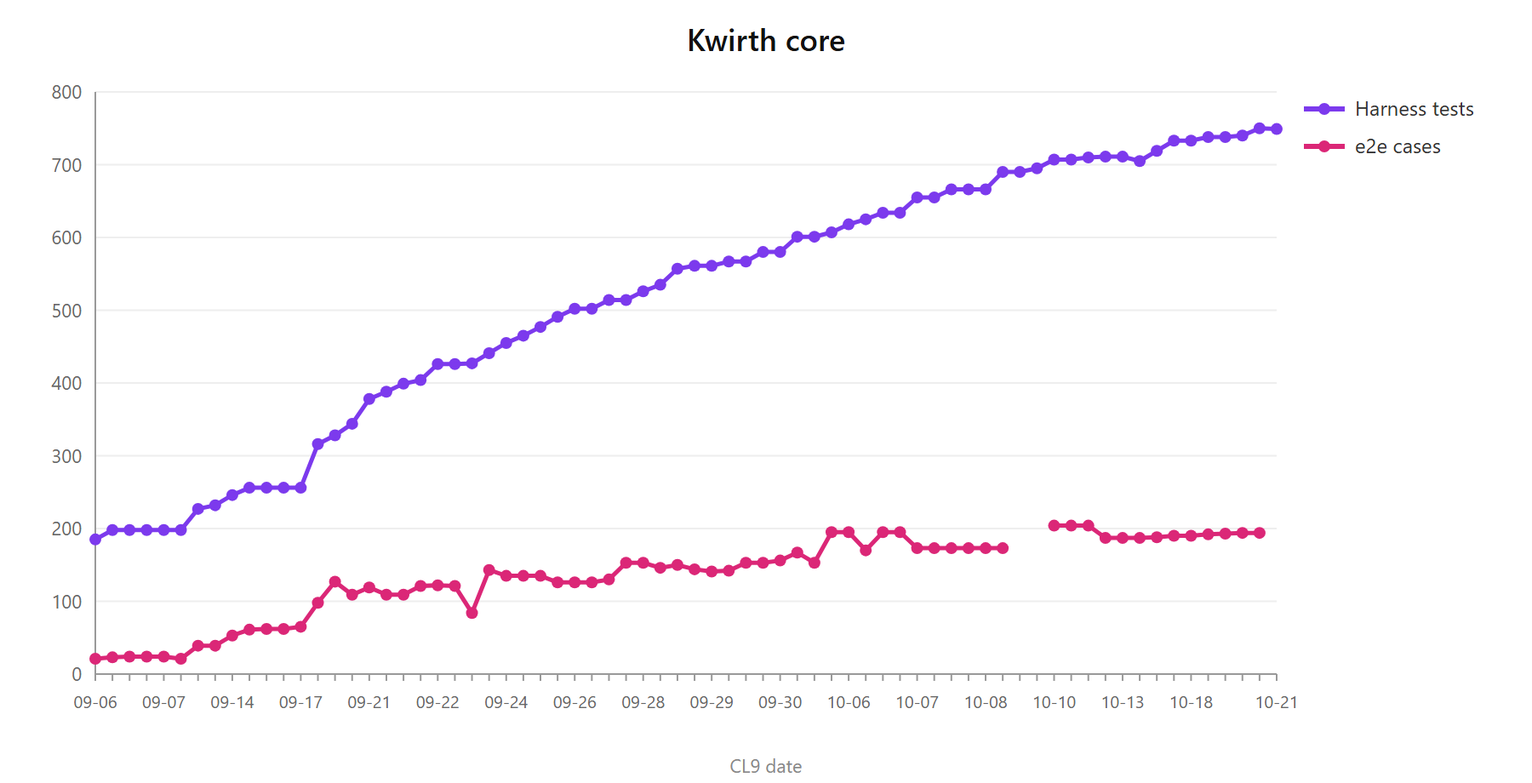
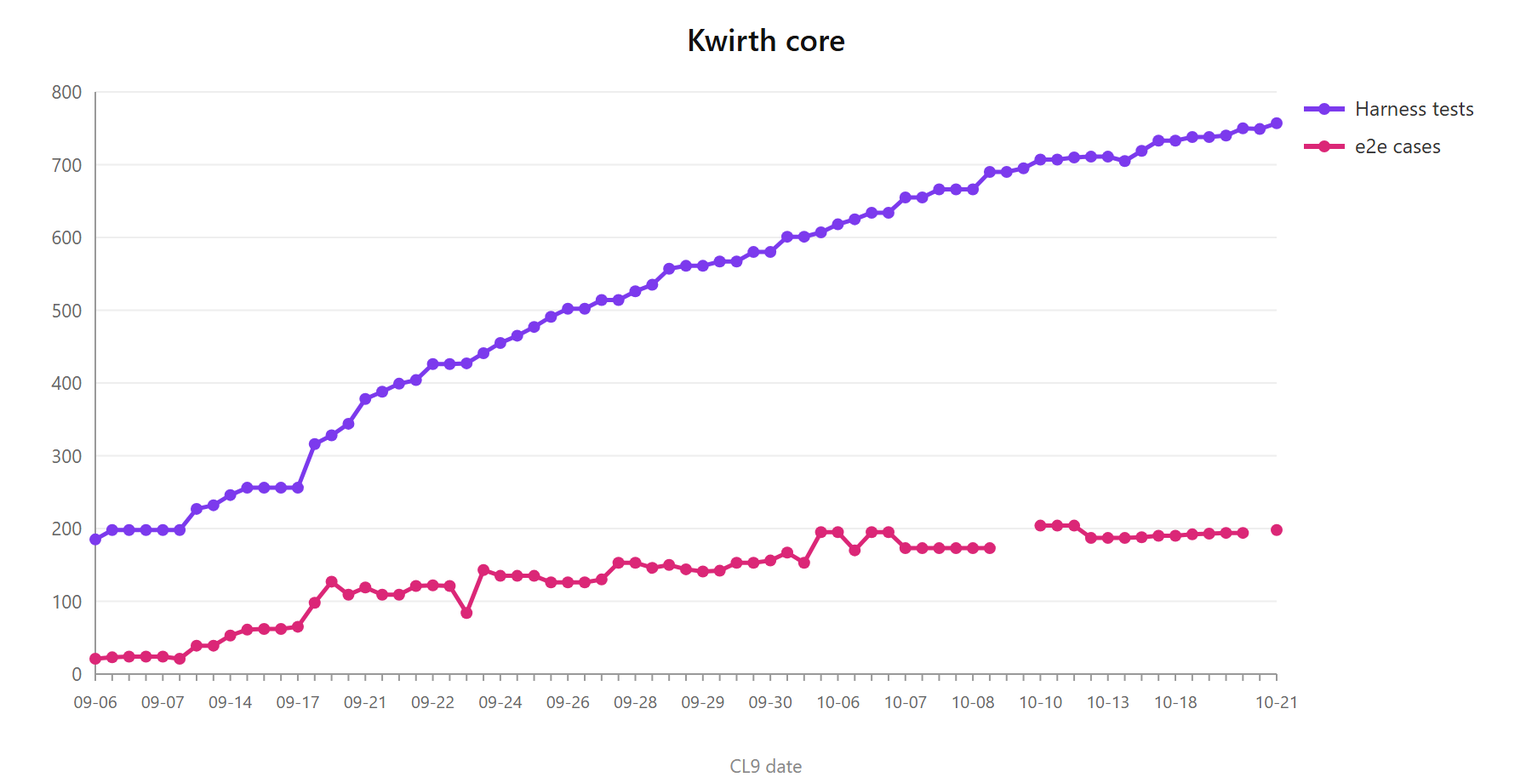
fix(auth): an IdP-bound user can no longer log in with a password (signup S0)
The User security drawer creates IdP users with password '' and UserApi stores
bcrypt(''). LoginApi never looked at user.idp, so POST /login with the user's
email and '' returned an AccessKey without going through the IdP, and so did
/login/password. Reproduced against the dev core before the fix (200 + key).

Both routes now refuse any user with a non-empty idp with a 401, counted by the
rate limiter like a wrong password, and log a warning under AUTH.

Also opens plans/signup (PRD validated, streams S0-S4), +4 harness tests, the
login-idp-password e2e spec, metrics row and the admin guide correction.

diff --git a/front/e2e/tests/login-idp-password.spec.ts b/front/e2e/tests/login-idp-password.spec.ts
@@ -1,0 +1,67 @@
+import { test, expect, APIRequestContext } from '@playwright/test'
+import { createHash } from 'crypto'
+
+/*
+    🔴 A user bound to an IdP cannot log in with a password (plan: plans/signup/PLAN.md, S0).
+
+    The drawer creates an IdP user with password '' and UserApi stores bcrypt(''), so before the gate a
+    POST /login with that email and '' handed out an AccessKey without going through the IdP. This runs
+    the real path against the dev core: the user is created exactly as the drawer does it.
+
+    NON-destructive: the only user it creates carries the `e2e-s0-` prefix and is deleted at the end, even
+    on failure. The IdP it binds to does not need to exist: the gate is on the binding, not on the IdP.
+*/
+
+const BACK = process.env.KWIRTH_E2E_BACK ?? 'http://localhost:3883'
+const USER = process.env.KWIRTH_E2E_USER ?? 'admin'
+const PASS = process.env.KWIRTH_E2E_PASS ?? ''
+
+const IDP_USER = 'e2e-s0-idp-user@example.com'
+const sha256 = (s: string) => createHash('sha256').update(s).digest('hex')
+
+interface IAccessKey { id: string, type: string, resources: string }
+
+test.describe.configure({ mode: 'serial' })
+
+test.describe('login: a user bound to an IdP cannot use a password', () => {
+    let api: APIRequestContext
+    let auth: Record<string, string>
+
+    test.beforeAll(async ({ playwright }) => {
+        api = await playwright.request.newContext({ baseURL: BACK })
+        const login = await api.post('/login', { data: { user: USER, password: sha256(PASS) } })
+        expect(login.status(), 'admin login against the back end').toBe(200)
+        const key = (await login.json()).accessKey as IAccessKey
+        auth = { Authorization: `Bearer ${key.id}|${key.type}|${key.resources}` }
+
+        // the same body ManageUserSecurity sends for an IdP user: empty password
+        const created = await api.post('/user', { headers: auth, data: { id: IDP_USER, name: 'e2e S0', password: '', resources: '', idp: 'google' } })
+        expect(created.status(), 'creating the IdP user').toBe(200)
+    })
+
+    test.afterAll(async () => {
+        await api.delete(`/user/${IDP_USER}`, { headers: auth }).catch(() => {})
+        await api.dispose()
+    })
+
+    test('🔴 POST /login with the empty password is refused (it used to return an AccessKey)', async () => {
+        const res = await api.post('/login', { data: { user: IDP_USER, password: '' } })
+        expect(res.status()).toBe(401)
+    })
+
+    test('POST /login with sha256 of the empty password is refused too', async () => {
+        const res = await api.post('/login', { data: { user: IDP_USER, password: sha256('') } })
+        expect(res.status()).toBe(401)
+    })
+
+    test('POST /login/password cannot be used to get in either', async () => {
+        const res = await api.post('/login/password', { data: { user: IDP_USER, password: '', newpassword: sha256('x') } })
+        expect(res.status()).toBe(401)
+    })
+
+    test('the user is still there, untouched: the gate refuses, it does not delete', async () => {
+        const res = await api.get(`/user/${IDP_USER}`, { headers: auth })
+        expect(res.status()).toBe(200)
+        expect((await res.json()).idp).toBe('google')
+    })
+})

diff --git a/back/tests/api/LoginApi.test.ts b/back/tests/api/LoginApi.test.ts
@@ -261,3 +261,49 @@ test('se aceptan los tres prefijos de bcrypt, no solo $2b$', async () => {
     }
     finally { await srv.stop() }
 })
+
+/*
+    🔴 A user bound to an IdP cannot log in with a password (signup S0).
+
+    The UI creates them with an empty password, stored as bcrypt(''): before the gate, a POST /login with
+    their email and '' handed out an AccessKey without going through the IdP. The second case proves the
+    gate does not depend on the password being empty: even the right one is refused.
+*/
+const IDP_USER = (password: string) => makeUser({ idp: 'google', password: bcrypt.hashSync(password, 4) })
+
+test('POST /login de un usuario IdP con password vacia devuelve 401 (antes daba accessKey)', async () => {
+    const srv = await startServer(encodeUsers([IDP_USER('')]))
+    try {
+        const res = await post(srv.base, '/login', { user: 'alice@example.com', password: '' })
+        assert.equal(res.status, 401)
+    }
+    finally { await srv.stop() }
+})
+
+test('POST /login de un usuario IdP con su password correcta tambien devuelve 401', async () => {
+    const srv = await startServer(encodeUsers([IDP_USER(sha256('secret'))]))
+    try {
+        const res = await post(srv.base, '/login', { user: 'alice@example.com', password: sha256('secret') })
+        assert.equal(res.status, 401)
+    }
+    finally { await srv.stop() }
+})
+
+test('POST /login/password de un usuario IdP devuelve 401 y no da accessKey', async () => {
+    const srv = await startServer(encodeUsers([IDP_USER('')]))
+    try {
+        const res = await post(srv.base, '/login/password', { user: 'alice@example.com', password: '', newpassword: sha256('nuevo') })
+        assert.equal(res.status, 401)
+    }
+    finally { await srv.stop() }
+})
+
+test('POST /login de un usuario con idp vacio se trata como local', async () => {
+    // '' is what the drawer stores for "Local": it must keep logging in with its password
+    const srv = await startServer(encodeUsers([makeUser({ idp: '' })]))
+    try {
+        const res = await post(srv.base, '/login', { user: 'alice@example.com', password: sha256('secret') })
+        assert.equal(res.status, 200)
+    }
+    finally { await srv.stop() }
+})

diff --git a/back/src/api/LoginApi.ts b/back/src/api/LoginApi.ts
@@ -49,6 +49,16 @@ const verifyPassword = async (incoming: string, stored: string, userId: string) 
     return { valid, firstLogin }
 }
 
+/*
+    🔴 A user bound to an IdP never logs in with a password, neither here nor on the password change.
+
+    Their identity is the IdP's to prove: the UI creates them with an empty password, which UserApi stores
+    as bcrypt(''), so without this gate a POST /login with their email and '' got an AccessKey without
+    ever going through the IdP. Refused as any other bad credential (401, and it counts for the rate
+    limiter), so the answer does not tell a local user from an IdP one.
+*/
+const isIdpUser = (user: IUser) => typeof user.idp === 'string' && user.idp !== ''
+
 export class LoginApi {
     secrets: ISecrets
     configMaps: IConfigMaps
@@ -94,6 +104,12 @@ export class LoginApi {
                     return
                 }
                 let user:IUser = JSON.parse(atob(users[req.body.user]))
+                if (user && isIdpUser(user)) {
+                    logWarning(ELogComponent.AUTH, `Password login refused for '${user.id}': bound to IdP '${user.idp}'`)
+                    LoginApi.rateLimiter.fail(rateKey)
+                    res.status(401).json({})
+                    return
+                }
                 if (user) {
                     const { valid, firstLogin } = await verifyPassword(req.body.password, user.password, user.id)
                     if (!valid) {
@@ -155,6 +171,12 @@ export class LoginApi {
                 }
 
                 let user:IUser = JSON.parse (atob(users[req.body.user]))
+                if (user && isIdpUser(user)) {
+                    logWarning(ELogComponent.AUTH, `Password change refused for '${user.id}': bound to IdP '${user.idp}'`)
+                    LoginApi.rateLimiter.fail(rateKey)
+                    res.status(401).send()
+                    return
+                }
                 if (user) {
                     const { valid } = await verifyPassword(req.body.password, user.password, user.id)
                     if (!valid) {

diff --git a/plans/signup/PRD.md b/plans/signup/PRD.md
@@ -1,0 +1,123 @@
+# PRD — Signup (auto-registro vía IdP)
+
+> **Estado:** validado · 2026-10-21 · D1–D9 cerradas por el usuario · implementación en [PLAN.md](PLAN.md)
+
+## 1. Resumen ejecutivo
+
+Hoy el acceso por IdP es **lista blanca estricta**: un usuario que se autentica bien en Google/Entra/… pero
+no está en `kwirth-users` recibe `notfound` y se queda fuera, y el admin tiene que darlo de alta a mano
+sabiendo de antemano su email. Este PRD añade el **signup**: si el admin lo habilita **en un IdP concreto**,
+ese usuario puede **pedir acceso**; la petición queda **pendiente de validación** y no entra en Kwirth hasta
+que un admin la **aprueba** (asignándole permisos) o la **rechaza**.
+
+**Criterio de éxito:** un usuario desconocido hace login con un IdP con signup habilitado, pide acceso, ve
+"pendiente"; el admin lo ve en *User security*, lo aprueba con unos recursos, y en el siguiente login el
+usuario entra con exactamente esos permisos. Con signup deshabilitado, el comportamiento es el de hoy, byte
+a byte.
+
+## 2. El problema
+
+- El alta manual exige que el admin conozca el email exacto del usuario **y** el IdP con el que entrará.
+  En equipos que crecen, el canal real es "mándame tu email por Teams", y los errores de tecleo acaban en
+  `notfound` sin pista para nadie.
+- El usuario rechazado no tiene forma de decir "quiero entrar": el mensaje es un callejón sin salida.
+- El admin no tiene visibilidad de quién lo está intentando.
+
+## 3. Personas
+
+- **Usuario externo** — tiene identidad en el IdP corporativo o público, no tiene usuario en Kwirth.
+- **Admin de Kwirth** — decide qué IdPs admiten signup y valida las peticiones.
+- (Fuera) **Usuario interno** (usuario/contraseña de Kwirth): **no hay signup** para ellos.
+
+## 4. Objetivos y no-objetivos
+
+**Objetivos**
+- Signup **opt-in por instancia de IdP**, deshabilitado por defecto.
+- Petición pendiente **sin ningún acceso**: ni AccessKey, ni login por password, ni aparece en pickers.
+- Aprobación con asignación de **recursos/permisos** en el mismo gesto.
+- Restricción opcional por **dominio de email** (imprescindible en IdPs públicos como Google).
+- Aviso al admin de que hay peticiones pendientes.
+
+**No-objetivos**
+- Signup de usuarios internos (usuario/contraseña).
+- Aprobación automática / auto-provisión con permisos por defecto sin intervención humana.
+- Mapeo de grupos/roles del IdP a recursos de Kwirth (posible evolución, no esta).
+- Workflows multi-aprobador, emails al usuario solicitante.
+
+## 5. Conceptos
+
+- **Signup request** — petición de acceso: `{ email, idp, name, comment?, requestedAt, status }`.
+- **Estados:** `pending` → `approved` (deja de ser petición: pasa a ser usuario) | `rejected`.
+- **Política de signup del IdP** — `{ enabled, allowedDomains[] }` dentro de la config de la instancia.
+
+## 6. Requisitos funcionales
+
+- **RF1** — El diálogo de configuración de cada IdP tiene una sección *Signup*: switch *Allow signup* y
+  lista opcional de dominios permitidos (vacía = cualquiera).
+- **RF2** — En el callback, si la identidad es válida (`email_verified`) pero el email **no** está en
+  `kwirth-users`, y el IdP tiene signup habilitado y el dominio pasa el filtro → el front muestra
+  *"Tu cuenta no tiene acceso. ¿Quieres solicitarlo?"* con nombre (pre-rellenado del IdP) y comentario
+  opcional. Con signup deshabilitado → `notfound` como hoy.
+- **RF3** — Enviar la solicitud crea la petición `pending`. El usuario ve "Solicitud enviada, un
+  administrador la revisará".
+- **RF4** — Un login posterior de alguien con petición `pending` → mensaje *"Tu solicitud está pendiente"*
+  (no se crea otra). Con `rejected` → *"Tu solicitud fue rechazada"*.
+- **RF5** — *User security* muestra una sección **Pending requests** (contador visible) con email, IdP,
+  nombre, comentario, fecha. Acciones: **Approve** (abre el editor de recursos/canales, como al crear un
+  usuario, con `idp` fijado) y **Reject**. Las rechazadas se pueden borrar (lo que permite volver a pedir).
+- **RF6** — Al hacer login un admin, si hay peticiones pendientes, aviso (toast) con enlace a *User security*.
+- **RF7** — Aprobar crea el usuario en `kwirth-users` con `idp` = la instancia de la petición y elimina la
+  petición. El siguiente login por IdP entra con normalidad.
+- **RF8** — Tope de peticiones pendientes por IdP (anti-spam en IdPs públicos); superado → la solicitud se
+  rechaza con mensaje genérico y queda log de warning.
+
+## 7. Decisiones cerradas (validadas 2026-10-21)
+
+- **D1 — Las peticiones viven en un Secret propio, `kwirth-signups`, no en `kwirth-users`.** Un pendiente
+  no es un usuario: así `LoginApi`, `AuthApi`, `getUsers` y los pickers no necesitan saber nada de estados
+  y es **imposible por construcción** que un pendiente obtenga una AccessKey. Descartado: `IUser.status`,
+  que obligaría a filtrar en cada sitio que lee usuarios (y basta olvidarse de uno).
+- **D2 — Signup explícito, no implícito.** El primer login fallido no crea la petición: el usuario la
+  confirma (RF2/RF3). Evita peticiones basura de quien se equivocó de cuenta.
+- **D3 — Handoff como el login**: el callback redirige a `?signup=<code>` (TTL 60 s, un solo uso, guarda
+  la identidad verificada) y el front hace `POST /core/auth/signup {code, name, comment}`. El email **nunca**
+  viene del front: sale de la identidad verificada en el callback.
+- **D4 — Los motivos de error del callback pasan a enum en common** (`ESsoResult`: `notfound`,
+  `idpmismatch`, `unverified`, `state`, `callback`, `unavailable`, `issue`, + `pending`, `rejected`,
+  `signuplimit`). Hoy son strings sueltos en back y front.
+- **D5 — La política de signup es un campo de primer nivel de la instancia**
+  (`IIdpInstanceConfig.signup?: IIdpSignupPolicy`), no parte del `config` del conector: es del core, igual
+  para todos los conectores (públicos y de pago).
+- **D6 — Un único lock para `kwirth-users` y `kwirth-signups`** en `IdentityService` (hoy el semáforo es
+  estático de `UserApi`); la aprobación escribe en los dos.
+- **D7 — Rechazadas se conservan** hasta que el admin las borre (evita que alguien re-pida en bucle).
+- **D8 — Aviso al admin en el front** (patrón `checkPreviousContainer`). Aviso por **sender** (Slack/Teams…)
+  queda como stream opcional, mismo patrón que `previousLogSender*` en settings.
+- **D9 — Tope por IdP: 50 pendientes** (configurable más adelante si hace falta).
+
+## 8. Lo que hay que decir en voz alta
+
+- 🔴 **Bug de seguridad existente, independiente del signup** (verificado leyendo el código): un usuario
+  de IdP creado desde la UI se guarda con `password = bcrypt('')` (`ManageUserSecurity.tsx` envía `''`,
+  `UserApi.ts` lo hashea) y `LoginApi` **no comprueba `user.idp`** → `POST /login {user:<email>, password:''}`
+  le daría AccessKey **sin pasar por el IdP**. Con signup habría más usuarios de IdP, así que se arregla
+  primero (stream S0): `LoginApi` rechaza a cualquier usuario con `idp`.
+- Con Google y signup sin dominios, **cualquier cuenta de Gmail del mundo** puede generar peticiones. El
+  diálogo lo avisa; el tope D9 acota el daño.
+- `PUT /user` reemplaza el objeto entero: la aprobación no lo usa, crea con `POST`.
+
+## 9. Criterios de aceptación
+
+1. Signup deshabilitado: un desconocido recibe `notfound`, igual que hoy (test de regresión).
+2. Signup habilitado + dominio no permitido → `notfound`.
+3. Signup habilitado → solicitud → `pending` visible al admin; re-login → mensaje "pendiente", sin AccessKey.
+4. Aprobación con recursos X → login OK con exactamente X.
+5. Rechazo → re-login → "rechazada"; borrar la rechazada → puede volver a pedir.
+6. `POST /login` con email de un usuario de IdP y password vacía → 401.
+7. Superado el tope → `signuplimit`.
+
+## 10. Abierto
+
+- ~~¿Aviso por sender en este alcance?~~ → **sí**, stream S4 (2026-10-21).
+- ~~¿Perfil de recursos por defecto por IdP al aprobar?~~ → **backlog**, como parte de un concepto más
+  general de **perfiles de permisos** (2026-10-21).

diff --git a/docs/qa/test-metrics-history.md b/docs/qa/test-metrics-history.md
@@ -60,6 +60,7 @@
 
 | Fecha | Cierre | Harness | Cobertura (líneas / ramas / funcs) | e2e | Notas |
 |---|---|---|---|---|---|
+| 2026-10-21 | 🔴 **Signup S0**: un usuario de IdP ya no entra por password ([`signup`](../../plans/signup/PLAN.md)) | **757** ✅ (753 pasan · 4 ⏭ · 0 ✗; **+4** en `LoginApi`: password vacía, password correcta, cambio de password, e `idp: ''` sigue siendo local) | **85.77 % / 84.76 % / 82.33 %** (+0.04 / +0.06 / +0.03) | **55 specs · 198 casos** (+1 spec, `login-idp-password`, 4 casos contra el back de dev). **Reproducido sin el arreglo**: el caso 🔴 daba **200 con AccessKey** | **Agujero de seguridad previo al signup**, encontrado al prepararlo. El drawer *User security* crea los usuarios de IdP con password `''` y `UserApi` guarda `bcrypt('')`; `LoginApi` no miraba `user.idp`, así que `POST /login {user:<email>, password:''}` daba una AccessKey **sin pasar por el IdP**, y `/login/password` igual. Ahora las dos rutas rechazan con **401** a cualquier usuario con `idp` no vacío —como una credencial mala, contando para el rate limiter, para que la respuesta no distinga un usuario local de uno de IdP— y dejan un warning en `AUTH`. Los 4 ⏭ son de SQL, ajenos. |
 | 2026-10-21 | El core mide el código de cada DCE al cargarlo (`kwirth-common@0.5.73`: `IDceMeta.backBytes`/`frontBytes`) | **749** ✅ · 4 ⏭ | 85.73 % / 84.70 % / 82.30 % | sin cambios de front del core: lo cubre el e2e de **Status** | El `DceManager` anota los bytes del `back.js` (en `activate()`) y del `front.js` (en `cacheFront()`, por donde pasa ya todo front cacheado) **al cargarlos**, no al instalar: salen también las DCE ya instaladas y las de dev, sin migrar ni reinstalar. Son del proceso y se añaden al listar: **nunca se escriben en el índice**. Al reinstalar y al desinstalar se olvidan, para que una versión que pierde una mitad no conserve su tamaño. **+3 tests** (bytes y no caracteres —una `ñ` son dos—, una mitad que no existe no tiene tamaño y nada va al índice, una actualización que quita el front lo olvida). Los 4 ⏭ son de SQL, ajenos. |
 | 2026-10-20 | **Instalar dos extensiones seguidas perdía una** (añadido a [`extension-managers-ui`](../../plans/completed/extension-managers-ui/PLAN.md)) | **750** ✅ (746 pasan · 4 ⏭ · 0 ✗; **+6** de `IndexLock` — dos installs a la vez, seis a la vez, un uninstall contra un install, un fallo que no atasca la cola) | **85.69 % / 84.68 % / 82.25 %** (= / +0.01 / +0.55) | **54 specs · 194 casos** (=). Relanzados los gestores (`aitoolsets`, `plugins`, `logins-docs`) como regresión del diálogo genérico. **Sin e2e nuevo**: la carrera necesita dos instalaciones simultáneas reales y los 6 unitarios la fijan mejor que un spec que instalaría extensiones de verdad | **Reportado desde producción**: *«he dado a instalar a varios rápido y solo aparece el primero; salgo y entro y me dice que ya está instalado»*. 🔴 La causa no era la UI: **el índice se escribía con la lista leída muchos `await` antes**. `read` → descarga del tgz, escritura del meta, escritura del código → `write(lista vieja)`. Dos installs a la vez: A lee `[]`, B lee `[]`, A escribe `[A]`, **B escribe `[B]`** y A desaparece del índice. Y como `registerToolset` SÍ había corrido, el registro vivo la tenía: `assertInstallable` pregunta por el registro, no por el índice, así que reinstalar contestaba *«already installed»* mientras la lista —que lee el índice— no la enseñaba. Por eso sobrevivía a cerrar el diálogo. Estaba en los **diez** gestores, no solo en aitoolsets. Ahora el índice se **relee dentro de un cerrojo** justo antes de escribirlo (`IndexLock.ts`): se serializa el read-modify-write y **no** la descarga, que no hay razón para encolar. **Y el front tenía su propia mitad**: `installingKey` guardaba UNA clave, así que pulsar el segundo borraba el rastro del primero y, al acabar el primero, su `finally` apagaba el spinner del **segundo**, todavía en vuelo; ahora son conjuntos. Más `loadInstalled()` con número de secuencia: cada install refresca al terminar, y una respuesta vieja llegando la última pintaba una lista anterior al install más nuevo — que es *exactamente* lo que se ve como «no se ha instalado». ⚠ **El cerrojo es de UN proceso**: dos cores sobre el mismo store seguirían pisándose, y `ConfigMaps` no ofrece compare-and-swap para arbitrarlo |
 | 2026-10-20 | **Lo `bundled` se puede actualizar** (añadido a [`extension-upgrade`](../../plans/completed/extension-upgrade/PLAN.md), que dejó fuera esa procedencia) | **740** ✅ (736 pasan · 4 ⏭ · 0 ✗; **+2**: que una bundled actualizada NO vuelva atrás al reiniciar, para plugin y para provider — el caso no existía) | **85.69 % / 84.67 % / 81.70 %** (+0.06 / −0.05 / +0.06) | **54 specs · 194 casos** (+1 caso, en `logins-docs-manager`: que el gestor ya no alegue la procedencia para no actualizar, y que `dev` sí siga alegándola). Relanzados `plugins-manager` y `settings-installed-lists`: **4 ✅ · 1 flaky** | **La imagen pasa a ser un punto de partida y no un techo.** Una extensión `bundled` no se podía actualizar —botón muerto, *«Bundled with Kwirth — it is updated with Kwirth itself»*— mientras el **aviso de arranque sí la anunciaba**: en una `kwirth-full`, que trae 8 plugins, 2 providers, 2 DCEs y la guía, el operador recibía en **cada login** una actualización que no podía aplicar desde el único sitio al que el aviso le mandaba, ni silenciar; la única salida era una imagen nueva. 🔴 **Y desbloquear el botón no bastaba**: `installBundled()` reinstalaba lo de la imagen siempre que la versión **difiriese**, no solo si era mayor, así que quien se saltara el botón veía su actualización **revertida en el siguiente reinicio, en silencio**. Ahora reinstala **solo si es más nuevo**, en los tres managers que comparaban (`Plugin`, `Provider`, `Docs`); los otros cuatro con `installBundled` ya saltaban lo instalado. Al actualizar, `installedFrom` deja de ser `bundled` y pasa a su origen, que es lo que permite al arranque distinguir lo que trae la imagen de lo que puso el operador. ⚠ **La condición de `DocsManager` llevaba `fs.existsSync(destDir)`** y no es decoración: repara un índice que dice *instalado* sobre ficheros que el temp del sistema se llevó —lo que mordió el día anterior—. Se conserva, y se le añade que solo repare cuando lo instalado **es** la bundled: si vino de otro sitio lo restaura `rehydrate()`, y hacerlo aquí devolvería al usuario en silencio a la guía de la imagen. ⚠ **Dos instalaciones con la misma imagen pueden acabar con extensiones distintas**: es lo buscado, pero cambia qué significa «la versión que tengo» |

diff --git a/plans/signup/PLAN.md b/plans/signup/PLAN.md
@@ -1,0 +1,60 @@
+# PLAN — Signup (auto-registro vía IdP)
+
+> **Estado:** vivo · 2026-10-21 · ✅ S0 entregado · siguiente: S1
+>
+> Producto y decisiones (D1–D9) en [PRD.md](PRD.md); este plan no las repite.
+
+## 1. Estado verificado del código (2026-10-21)
+
+- `IUser` (`common/src/Global.ts:6-21`) tiene `idp?` y **ningún** campo de estado.
+- `kwirth-users`: `IdentityService.readUsers/writeUsers` (`back/src/tools/auth/IdentityService.ts`);
+  `writeUsers` reescribe **el mapa entero**. El único lock es `UserApi.semaphore` (estático); `AuthApi`
+  no lo usa.
+- Gate del callback: `back/src/api/AuthApi.ts:172-242`. Los fallos son `302 {front}?ssoerror=<reason>` con
+  strings sueltos (`unavailable`, `state`, `callback`, `unverified`, `notfound`, `idpmismatch`, `issue`).
+  Éxito: handoff `TtlStore` 60 s → `?sso=<code>` → `POST /core/auth/exchange`.
+- El front mapea esos strings en `front/src/App.tsx:2780-2788` (`ssoErrorMessages`).
+- `IIdpInstanceConfig` vive en `common-back/src/IIdpConnector.ts:95-101`, con copia en el front
+  (`front/src/components/extensions/IdpConfigDialog.tsx:22-28`). Persistido en `kwirth-idps` por
+  `IdpManager`; `IdpApi.save` guarda los campos de primer nivel tal cual.
+- *User security* (`front/src/components/security/ManageUserSecurity.tsx`): `GET /user` devuelve solo ids.
+- 🔴 `LoginApi` (`back/src/api/LoginApi.ts:73-123`) no comprueba `user.idp`, y los usuarios de IdP creados
+  desde la UI tienen `bcrypt('')` → login por password vacía sin pasar por el IdP.
+
+## 2. Tipos nuevos (validados con D4/D5)
+
+- `common`: `enum ESsoResult` (los 7 actuales + `PENDING`, `REJECTED`, `SIGNUPLIMIT`),
+  `enum ESignupStatus { PENDING, REJECTED }`, `interface ISignupRequest { id (email), idp, name, comment?,
+  requestedAt, status }`.
+- `common-back`: `interface IIdpSignupPolicy { enabled, allowedDomains: string[] }`;
+  `IIdpInstanceConfig.signup?: IIdpSignupPolicy`. El front deja de duplicar el tipo y lo toma de `common`
+  si hace falta moverlo (a decidir en S1, sin re-exports).
+
+## 3. Streams
+
+| # | Entrega | Validación | Depende de |
+|---|---|---|---|
+| ✅ **S0** | `LoginApi` devuelve 401 a cualquier usuario con `idp` | harness: password vacía y password correcta de usuario IdP → 401; local sigue OK | — |
+| **S1** | Tipos (§2) publicados (`common`, `common-back`); `ESsoResult` sustituye los strings en back y front sin cambio de comportamiento; `SignupStore` sobre `kwirth-signups`; lock único en `IdentityService` (D6) usado por `UserApi`, `LoginApi`, `AuthApi` y `SignupStore` | harness del store + regresión `AuthApi.test.ts` | — |
+| **S2** | Back: rama signup en el callback (dominio, `pending`/`rejected`, tope D9) → `?signup=<code>`; `POST /core/auth/signup`; API admin `GET /user/signups`, `POST …/:id/approve` (crea usuario con `idp`, borra petición), `POST …/:id/reject`, `DELETE …/:id` | harness: criterios de aceptación 1–7 del PRD | S1 |
+| **S3** | Front: sección *Signup* en `IdpConfigDialog`; diálogo "Request access" tras `?signup`; mensajes de `ESsoResult`; *Pending requests* en *User security* (approve con editor de recursos, reject, delete) con contador; toast al admin tras login | e2e Playwright + QA manual | S2 |
+| **S4** | Aviso por sender: `signupSenderId`/`signupSenderConfigName` en settings | harness + QA | S2 |
+
+Cada stream cierra su CL9.
+
+## 4. Backlog
+
+- **Perfiles de permisos** — conjuntos de recursos/canales con nombre, reutilizables: al aprobar un signup
+  (pre-rellenar el editor con el perfil por defecto del IdP) y, en general, al dar de alta usuarios.
+  Fuera de este plan; probablemente merece PRD propio.
+
+## 5. Bitácora
+
+- 2026-10-21 — PRD validado (D1–D9). Streams S0–S4 validados; S4 (aviso por sender) **dentro** del alcance.
+  El perfil de recursos por defecto, al backlog (§4).
+- 2026-10-21 — ✅ **S0 cerrado.** `LoginApi` rechaza con 401 a cualquier usuario con `idp` no vacío, en
+  `/login` y en `/login/password` (contando para el rate limiter, warning en `AUTH`). **Reproducido antes
+  de arreglarlo** contra el back de dev: `POST /login {user:<email IdP>, password:''}` daba **200 con
+  AccessKey**. Harness 757 (+4), e2e `login-idp-password` (4 casos), QA manual validado por el usuario
+  (incluida la regresión de admin y del login con Google). Guía de admin `03-user-management` corregida:
+  decía *"no password is stored"*, y se guarda `bcrypt('')`.

diff --git a/plans/README.md b/plans/README.md
@@ -29,6 +29,7 @@ meses después — que es exactamente lo que pasaba antes de escribir este índi
 | plan | de qué va | qué queda |
 |---|---|---|
 | [dce-load-order](dce-load-order/PRD.md) | 🔴 los **DCE se cargan DESPUÉS de los providers**, al revés de lo que el propio core documenta («DCEs go FIRST… before the senders, webhooks, toolsets, **providers**…»). Un provider que pida su DCE en `startProvider()` no lo encuentra, y el fallo **no se ve**: no hay excepción ni error en pantalla, simplemente no hace nada | **sin empezar** (hallazgo del 2026-10-21, al estrenar `aws-auth` en `cloud-config`). No es mover dos líneas: el bloque a adelantar incluye `setInstalledExtensionsSource` (RF8) y `setConsumerResolver` (RF9/RF11) tras un `if (!dceManager)`, así que adelantar solo la creación los deja sin registrar — en silencio, el mismo tipo de fallo. Hay apaño vigente: `cloud-config` difiere su primera resolución 10 s |
+| [signup](signup/PLAN.md) · [PRD](signup/PRD.md) | auto-registro de usuarios vía IdP: signup opt-in por IdP (con filtro de dominio), la petición queda **pendiente** en `kwirth-signups` sin ningún acceso hasta que un admin la aprueba asignando recursos o la rechaza. 🔴 De paso, S0: `LoginApi` no comprueba `user.idp` y un usuario de IdP entra por `/login` con password vacía | **PRD validado** (2026-10-21, D1–D9) y streams S0–S4 validados. ✅ **S0 cerrado** el mismo día (el agujero, reproducido en dev y tapado). Siguen S1 (tipos + `SignupStore` + lock único), S2 (back), S3 (front) y S4 (aviso por sender) |
 | [magnify-plugin](magnify-plugin/PLAN.md) | el canal `magnify`, el último compilado dentro del core, sale a un plugin instalable; sus funciones de Kubernetes a `kwirth-common-back`, iconos y `ChannelTools` a `kwirth-common-front`, `CHANNEL_MAGNIFY` fuera de los despliegues | decisiones validadas (2026-10-13); **G1** (librerías comunes) en curso, después **G2** (plugin + retirada del core) |
 | [events-provider](events-provider/PLAN.md) | el provider `events` sale del core a una extensión instalable (`provider/events@0.1.0`); el watch con reintentos pasa a `kwirth-common-back` (`createResourceWatcher`), los providers ganan la lectura bajo demanda (`IProvider.getData`), Magnify la usa y avisa si falta | **E1 entregado** (2026-10-13), con `topology`, `censor` (+ pack) y `pinocchio` republicados con `requires`, y `kwirth-common-back` 0.6.3 (el watch ya no se rinde en recursos tranquilos). Queda **E2**: la cascada de pago (`agora`, `excubitor`, `iter`, `montag`) y la revisión de montag (el GitLab privado ya está operativo); antes va Magnify como plugin |
 | [metrics-provider](metrics-provider/PLAN.md) | el provider `metrics` sale del core a una extensión instalable (`provider/metrics@0.1.0`); sus rutas pasan al `configRouter` detrás del accessKey, el core calcula la capacidad del cluster y Magnify avisa si falta | **P1 entregado** (2026-10-13), con `metrics`, `alert` y `pinocchio` republicados con `requires`. Queda la parte de pago (`spectrum`, `agora`), que estuvo bloqueada por el GitLab privado caído y ya se puede hacer (operativo desde el 2026-10-13) |

diff --git a/docs/0.6.31/guide/admin/03-user-management.md b/docs/0.6.31/guide/admin/03-user-management.md
@@ -82,7 +82,7 @@ Select it in **Resource List** and click **REMOVE**.
 Every user authenticates in one of two ways, selected with the **IdP** field of the editor:
 
 - **Local user** — the **IdP** field is `Local (user/password)`. They log in with the Id + Password you set here.
-- **IdP-bound user** — the **IdP** field points to an Identity Provider connector; they log in through that provider and **no password is used**.
+- **IdP-bound user** — the **IdP** field points to an Identity Provider connector; they log in through that provider and **only** through it: the user/password login refuses them.
 
 ## IdP-bound users
 
@@ -94,7 +94,7 @@ Rules that make an IdP user work (all must hold):
 
 - The **Id must be the user's verified email** — this is what the provider will return and what kwirth matches against.
 - The user must be **bound to the exact connector** they will use to sign in. A verified email arriving from a *different* provider is rejected.
-- **No password** is stored for IdP users; the Password field is irrelevant for them.
+- **No password** is used for IdP users; the Password field is irrelevant for them. An IdP-bound user **cannot log in with a password at all**, not even through the API: Kwirth refuses the user/password login (and the password change) for any user bound to an IdP, as it would refuse a wrong password, and logs a warning under the **Authentication** log component. Their only way in is their Identity Provider.
 - **No auto-provisioning** — you must create the user here first. Signing in with Google/GitLab/GitHub never creates an account by itself.
 
 ### Create an IdP-bound user (example)
